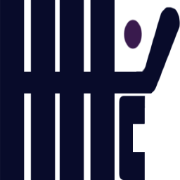
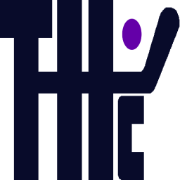
full merge to thc

diff --git a/index.html b/index.html
@@ -42,7 +42,7 @@
             <span class="fas fa-bars fa-lg"></span>
           </button>
           <a href="#page-top" class="navbar-brand page-scroll" target="_blank">
-            <span><img class="img-responsive" src="images/hcc-logo-dot-6400A8.png" width="40"></span>
+            <span><img class="img-responsive" src="images/thc-logo.png" width="40"></span>
           </a>
         </div>
         <div class="navbar-collapse navbar-right navbar-main-collapse collapse" aria-expanded="false">
@@ -63,7 +63,7 @@
   <header class="home">
     <div class="home-content pt-50">
       <div class="container">
-        <img class="img-responsive hhc-logo" src="images/hcc-logo-dot-6400A8.png" width="40%">
+        <img class="img-responsive hhc-logo" src="images/dual-logo.png" width="40%">
       </div>
     </div>
     <span class="scroll-indicator">
@@ -190,7 +190,7 @@
     <div class="container">
       <div class="row">
         <div class="col-md-4 text-center mt-20 mb-30">
-          <img class="about-img img-circle img-responsive" src="images/circle-logo.png">
+          <img class="about-img img-circle img-responsive" src="images/circleLogo-thc.png">
         </div>
         <div class="col-md-8">
           <h2 class="hs-line-2">Their Hockey Counts<span class="accent">.</span></h2>

diff --git a/Resources.html b/Resources.html
@@ -42,7 +42,7 @@
             <span class="fas fa-bars fa-lg"></span>
           </button>
           <a href="index.html" class="navbar-brand page-scroll">
-            <span><img class="img-responsive" src="images/hcc-logo-dot-6400A8.png" width="40"></span>
+            <span><img class="img-responsive" src="images/thc-logo.png" width="40"></span>
           </a>
         </div>
         <div class="navbar-collapse navbar-right navbar-main-collapse collapse" aria-expanded="false">
@@ -118,7 +118,7 @@
     <div class="container">
       <div class="row">
         <div class="col-md-4 text-center mt-20 mb-10">
-          <img class="about-img img-circle img-responsive" src="images/circle-logo.png">
+          <img class="about-img img-circle img-responsive" src="images/circleLogo-thc.png">
         </div>
         <div class="col-md-8">
           <h2 class="hs-line-2">Featured Work<span class="accent">.</span></h2>

diff --git a/CWHL.html b/CWHL.html
@@ -42,7 +42,7 @@
             <span class="fas fa-bars fa-lg"></span>
           </button>
           <a href="index.html" class="navbar-brand page-scroll">
-            <span><img class="img-responsive" src="images/hcc-logo-dot-6400A8.png" width="40"></span>
+            <span><img class="img-responsive" src="images/thc-logo.png" width="40"></span>
           </a>
         </div>
         <div class="navbar-collapse navbar-right navbar-main-collapse collapse" aria-expanded="false">

diff --git a/NCAA.html b/NCAA.html
@@ -42,7 +42,7 @@
             <span class="fas fa-bars fa-lg"></span>
           </button>
           <a href="index.html" class="navbar-brand page-scroll">
-            <span><img class="img-responsive" src="images/hcc-logo-dot-6400A8.png" width="40"></span>
+            <span><img class="img-responsive" src="images/thc-logo.png" width="40"></span>
           </a>
         </div>
         <div class="navbar-collapse navbar-right navbar-main-collapse collapse" aria-expanded="false">

diff --git a/NWHL.html b/NWHL.html
@@ -42,7 +42,7 @@
             <span class="fas fa-bars fa-lg"></span>
           </button>
           <a href="index.html" class="navbar-brand page-scroll">
-            <span><img class="img-responsive" src="images/hcc-logo-dot-6400A8.png" width="40"></span>
+            <span><img class="img-responsive" src="images/thc-logo.png" width="40"></span>
           </a>
         </div>
         <div class="navbar-collapse navbar-right navbar-main-collapse collapse" aria-expanded="false">

diff --git a/U18.html b/U18.html
@@ -42,7 +42,7 @@
             <span class="fas fa-bars fa-lg"></span>
           </button>
           <a href="index.html" class="navbar-brand page-scroll">
-            <span><img class="img-responsive" src="images/hcc-logo-dot-6400A8.png" width="40"></span>
+            <span><img class="img-responsive" src="images/thc-logo.png" width="40"></span>
           </a>
         </div>
         <div class="navbar-collapse navbar-right navbar-main-collapse collapse" aria-expanded="false">

diff --git a/International.html b/International.html
@@ -42,7 +42,7 @@
             <span class="fas fa-bars fa-lg"></span>
           </button>
           <a href="index.html" class="navbar-brand page-scroll">
-           <span><img class="img-responsive" src="images/hcc-logo-dot-6400A8.png" width="40"></span>
+           <span><img class="img-responsive" src="images/thc-logo.png" width="40"></span>
           </a>
         </div>
         <div class="navbar-collapse navbar-right navbar-main-collapse collapse" aria-expanded="false">
